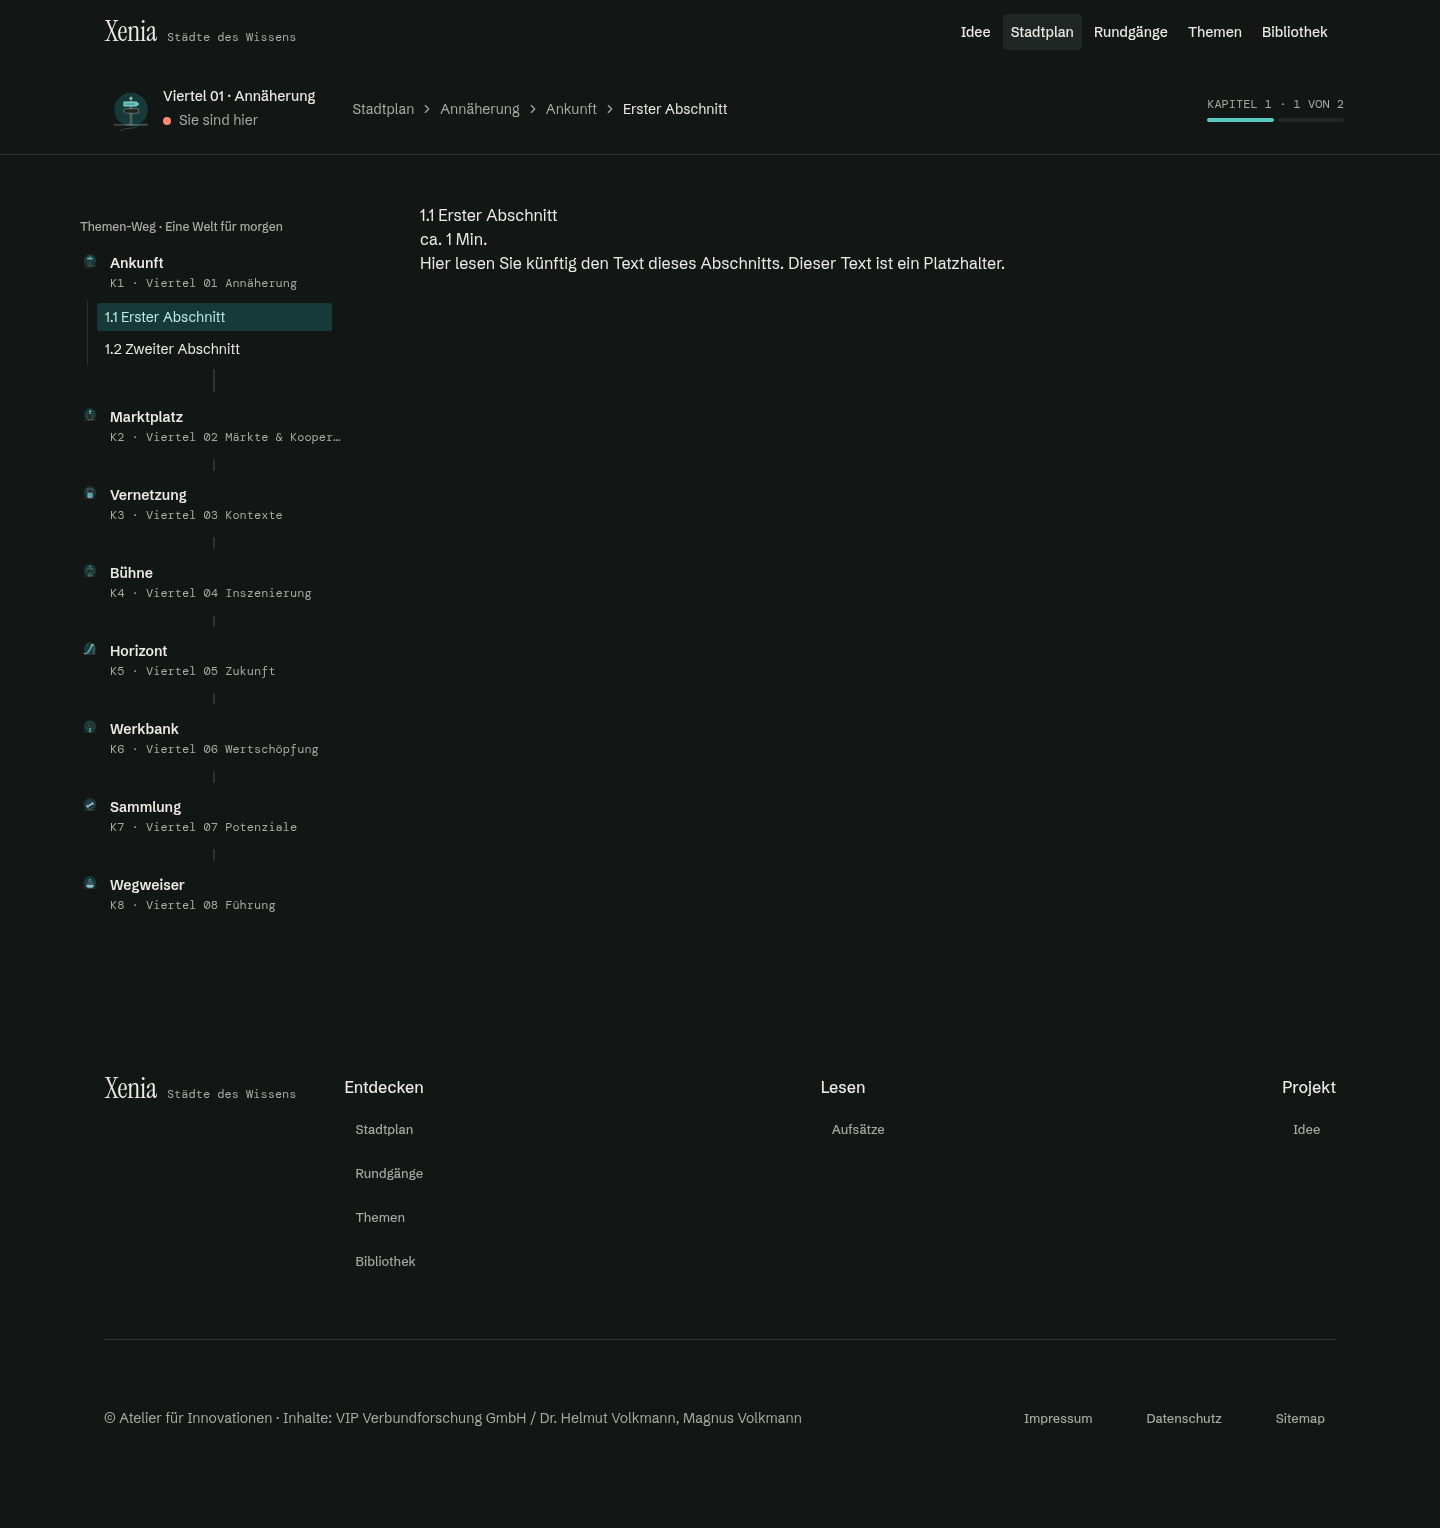
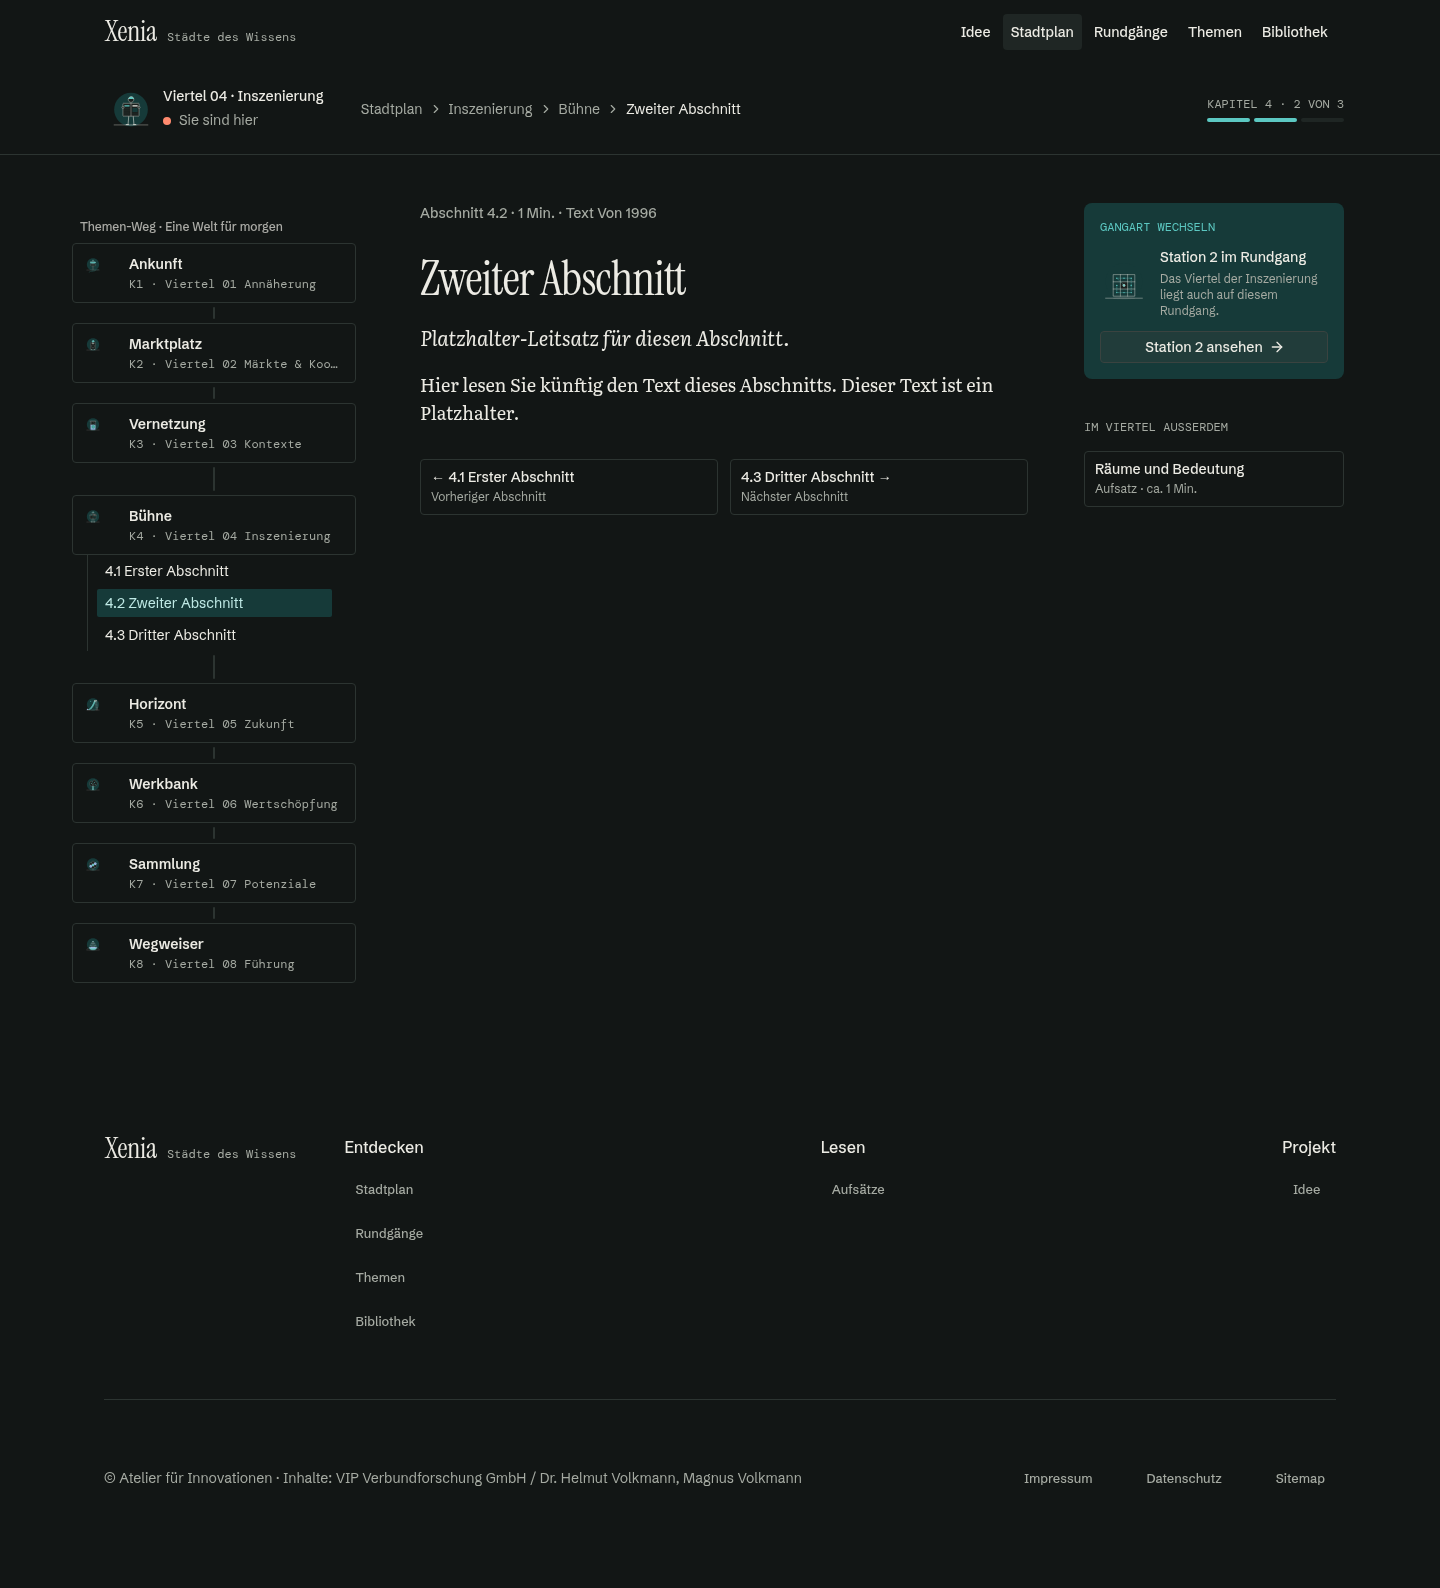
feat(abschnitt): add Abschnitt page with tagline, rich text and navigation
Fills ReadingLayout's columns (#99, #109) for the Abschnitt page (Figma
T04, issue #101): a Tagline ("Abschnitt n.m · n Min. · Text von jahr",
the year left out without one), the title and leitsatz as a lead, the
MDX body in a new Kartei rich-text component, previous/next Abschnitt
Items computed from the Kapitel's own Abschnitte (only where a sibling
exists), and the Kapitel page's Randspalte reused unchanged.

The issue's own breakpoint table puts the previous/next Items side by
side from 768px, even though the Figma frame at that width draws them
stacked — built to the issue's table (its own source-of-truth line) and
recorded as a spec conflict for review.

The shadcn/ui registry serves no installable "Typography" item yet
(`pnpm exec shadcn add typography` 404s), so src/components/ui/rich-text.tsx
hand-builds the Kartei equivalent of the Figma kit's "Typography / Rich
Text" component instead.

diff --git a/src/components/abschnitt/abschnitt-detail.tsx b/src/components/abschnitt/abschnitt-detail.tsx
@@ -1,9 +1,14 @@
+import Link from 'next/link'
 import type * as React from 'react'
 
+import { KapitelRandspalte } from '@/components/kapitel/kapitel-randspalte'
 import { KapitelEbenenLeiste } from '@/components/navigation/kapitel-ebenen-leiste'
 import { ReadingLayout } from '@/components/navigation/reading-layout'
+import { Tagline } from '@/components/pro-blocks/landing-page/tagline'
+import { Item, ItemContent, ItemDescription, ItemTitle } from '@/components/ui/item'
+import { RichText } from '@/components/ui/rich-text'
 import type { Abschnitt } from '@/lib/content'
-import { contentGraph } from '@/lib/content'
+import { contentGraph, shortTitleOrTitle } from '@/lib/content'
 import { t } from '@/lib/dictionary'
 import { bodyImageComponents } from '@/mdx-components'
 
@@ -12,26 +17,90 @@ interface AbschnittDetailProps extends React.ComponentProps<'div'> {
 	locale?: string
 }
 
-// An Abschnitt's own page content (issue #30), shared between its dedicated
-// German route and the catch-all route's localized rendering (issue #36). The
-// heading is the full title: the Short title is only for Menus, breadcrumbs
-// and previous/next (issue #23). The reading layout's Themen-Weg sidebar and
-// Randspalte slot are issue #99.
+// A previous/next Abschnitt Item (Figma "Vor / Zurück (Item)", T04, issue
+// #101): plain outline Items, the arrow baked into the title string like
+// Ortsleiste's ("← {label}", "{label} →"), since Figma draws no separate
+// Item / Media or Item / Actions for them.
+function nachbarItem(
+	nachbar: Abschnitt,
+	titleKey: 'abschnitt.previousTitle' | 'abschnitt.nextTitle',
+	label: string,
+) {
+	return (
+		<Item render={<Link href={nachbar.url} />} variant="outline" size="xs" className="md:flex-1">
+			<ItemContent>
+				<ItemTitle>
+					{t(titleKey, { number: nachbar.number, title: shortTitleOrTitle(nachbar) })}
+				</ItemTitle>
+				<ItemDescription>{label}</ItemDescription>
+			</ItemContent>
+		</Item>
+	)
+}
+
+// An Abschnitt's own page content (Figma T04, issue #101): the Tagline, its
+// title and `leitsatz` as the lead, its MDX body in the Kartei rich-text
+// style, and the previous/next Abschnitt Items — shared between its
+// dedicated German route and the catch-all route's localized rendering
+// (issue #36). The Randspalte is the Kapitel page's own (issue #100),
+// reused unchanged: both pages share one Viertel's Gangart-Box and "Im
+// Viertel außerdem". Figma's "Marker" ("Hier haben Sie zuletzt gelesen") is
+// reading state, not decided yet (issue #64) and out of this issue's
+// acceptance criteria, so it stays out.
 async function AbschnittDetail({ abschnitt, locale, ...props }: AbschnittDetailProps) {
 	const graph = contentGraph()
 	const Body = await graph.getBody(abschnitt.id, locale)
 	const kapitel = graph.getKapitel(abschnitt.kapitelId)
 	if (!kapitel) throw new Error(`AbschnittDetail: unknown Kapitel ID: ${abschnitt.kapitelId}`)
+	const viertel = graph.getViertel(kapitel.viertelId)
+	if (!viertel) throw new Error(`AbschnittDetail: unknown Viertel ID: ${kapitel.viertelId}`)
+
+	const geschwister = graph.getAbschnitteByKapitel(kapitel.id)
+	const index = geschwister.findIndex((candidate) => candidate.id === abschnitt.id)
+	const previous = index > 0 ? geschwister[index - 1] : undefined
+	const next = index >= 0 && index < geschwister.length - 1 ? geschwister[index + 1] : undefined
+
+	const tagline = abschnitt.jahr
+		? t('abschnitt.tagline', {
+				number: abschnitt.number,
+				n: abschnitt.readingTimeMinutes,
+				jahr: abschnitt.jahr,
+			})
+		: t('abschnitt.taglineOhneJahr', { number: abschnitt.number, n: abschnitt.readingTimeMinutes })
 
 	return (
 		<div data-slot="abschnitt-detail" {...props}>
 			<KapitelEbenenLeiste kapitel={kapitel} abschnitt={abschnitt} />
-			<ReadingLayout graph={graph} kapitel={kapitel} abschnitt={abschnitt}>
-				<h1>
-					{t('abschnitt.numberedTitle', { number: abschnitt.number, title: abschnitt.title })}
-				</h1>
-				<p>{t('abschnitt.readingTime', { n: abschnitt.readingTimeMinutes })}</p>
-				<Body components={bodyImageComponents(abschnitt.id)} />
+			<ReadingLayout
+				graph={graph}
+				kapitel={kapitel}
+				abschnitt={abschnitt}
+				randspalte={<KapitelRandspalte graph={graph} viertel={viertel} />}
+			>
+				{/* 608px: the Source Text Rule's column width for the original
+				    Xenia text (Figma T04 36626:14599, kartei-design-system.md Typography). */}
+				{/* eslint-disable-next-line restrictions/arbitrary-size-classes */}
+				<div className="flex max-w-[608px] flex-col gap-8">
+					<Tagline>{tagline}</Tagline>
+					<div className="flex flex-col gap-5">
+						<h1 className="font-heading text-[48px] leading-none tracking-[-0.02em] text-foreground">
+							{abschnitt.title}
+						</h1>
+						{abschnitt.leitsatz && (
+							<p className="font-serif text-xl text-foreground italic">{abschnitt.leitsatz}</p>
+						)}
+						<RichText>
+							<Body components={bodyImageComponents(abschnitt.id)} />
+						</RichText>
+					</div>
+					{(previous || next) && (
+						<div className="flex flex-col gap-3 md:flex-row">
+							{previous &&
+								nachbarItem(previous, 'abschnitt.previousTitle', t('abschnitt.previousLabel'))}
+							{next && nachbarItem(next, 'abschnitt.nextTitle', t('abschnitt.nextLabel'))}
+						</div>
+					)}
+				</div>
 			</ReadingLayout>
 		</div>
 	)

diff --git a/src/components/abschnitt/abschnitt-detail.test.tsx b/src/components/abschnitt/abschnitt-detail.test.tsx
@@ -1,0 +1,75 @@
+import path from 'node:path'
+import { fileURLToPath } from 'node:url'
+
+import { renderToStaticMarkup } from 'react-dom/server'
+import { describe, expect, it, vi } from 'vitest'
+
+import { buildContentGraph } from '@/lib/content'
+
+const fixturesDir = path.join(path.dirname(fileURLToPath(import.meta.url)), '__fixtures__')
+const fixtureGraph = buildContentGraph(path.join(fixturesDir, 'abschnitt-detail-valid'))
+// The real getBody resolves MDX through a Vite dynamic import of src/content,
+// which a fixture directory isn't part of; the body itself isn't under test.
+const graph = { ...fixtureGraph, getBody: async () => () => null } as typeof fixtureGraph
+
+vi.mock('@/lib/content', async (importOriginal) => ({
+	...(await importOriginal<typeof import('@/lib/content')>()),
+	contentGraph: () => graph,
+}))
+
+const { AbschnittDetail } = await import('./abschnitt-detail')
+
+const abschnitte = graph.getAbschnitteByKapitel('leitthema/mein-kapitel')
+const [erster, zweiter, dritter] = abschnitte
+
+async function render(abschnitt: (typeof abschnitte)[number]) {
+	return renderToStaticMarkup(await AbschnittDetail({ abschnitt }))
+}
+
+describe('AbschnittDetail', () => {
+	it('shows the Tagline with the year when the Abschnitt has one', async () => {
+		const html = await render(zweiter!)
+
+		expect(html).toContain(`Abschnitt ${zweiter!.number}`)
+		expect(html).toContain('Text von 1996')
+	})
+
+	it('leaves the year out of the Tagline without one', async () => {
+		const html = await render(erster!)
+
+		expect(html).toContain(`Abschnitt ${erster!.number}`)
+		expect(html).not.toContain('Text von')
+	})
+
+	it('shows only the next Item on the first Abschnitt', async () => {
+		const html = await render(erster!)
+
+		expect(html).not.toContain('Vorheriger Abschnitt')
+		expect(html).toContain('Nächster Abschnitt')
+		expect(html).toContain(`href="${zweiter!.url}"`)
+	})
+
+	it('shows only the previous Item on the last Abschnitt', async () => {
+		const html = await render(dritter!)
+
+		expect(html).toContain('Vorheriger Abschnitt')
+		expect(html).not.toContain('Nächster Abschnitt')
+		expect(html).toContain(`href="${zweiter!.url}"`)
+	})
+
+	it('shows both Items on a middle Abschnitt', async () => {
+		const html = await render(zweiter!)
+
+		expect(html).toContain('Vorheriger Abschnitt')
+		expect(html).toContain('Nächster Abschnitt')
+		expect(html).toContain(`href="${erster!.url}"`)
+		expect(html).toContain(`href="${dritter!.url}"`)
+	})
+
+	it("reuses the Kapitel page's Randspalte for the Abschnitt's own Viertel", async () => {
+		const html = await render(zweiter!)
+
+		expect(html).toContain('data-slot="gangart-box"')
+		expect(html).toContain('IM VIERTEL AUSSERDEM')
+	})
+})

diff --git a/src/components/ui/rich-text.tsx b/src/components/ui/rich-text.tsx
@@ -1,0 +1,28 @@
+import { cn } from 'cn'
+import type * as React from 'react'
+
+// Xenia / Typography / Rich Text (Figma component 36698:54377, "Maps to
+// shadcn/ui Typography"; issue #101): the Kartei styling for a document's
+// MDX body — Literata, the Source Text Rule's face for the original Xenia
+// texts (kartei-design-system.md, Typography). The shadcn/ui registry
+// serves no base-nova `typography` item yet (404 as of this writing), so
+// this styles the body's plain elements by hand instead of installing one.
+function RichText({ className, ...props }: React.ComponentProps<'div'>) {
+	return (
+		<div
+			data-slot="rich-text"
+			className={cn(
+				'flex flex-col gap-5 font-serif text-lg text-foreground',
+				'[&_a]:text-primary [&_a]:underline',
+				'[&_blockquote]:font-serif [&_blockquote]:text-xl [&_blockquote]:italic',
+				'[&_h2]:font-heading [&_h2]:text-3xl [&_h2]:text-foreground',
+				'[&_h3]:font-heading [&_h3]:text-2xl [&_h3]:text-foreground',
+				'[&_ol]:list-decimal [&_ol]:pl-5 [&_ul]:list-disc [&_ul]:pl-5',
+				className,
+			)}
+			{...props}
+		/>
+	)
+}
+
+export { RichText }

diff --git a/src/lib/dictionary/de.ts b/src/lib/dictionary/de.ts
@@ -51,7 +51,12 @@ export const de = {
 	'gangart.viertelLine': 'Das Viertel der {title} liegt auch auf diesem Rundgang.',
 	'gangart.ansehen': 'Station {number} ansehen',
 	'abschnitt.numberedTitle': '{number} {title}',
-	'abschnitt.readingTime': 'ca. {n} Min.',
+	'abschnitt.tagline': 'Abschnitt {number} · {n} Min. · Text von {jahr}',
+	'abschnitt.taglineOhneJahr': 'Abschnitt {number} · {n} Min.',
+	'abschnitt.previousTitle': '← {number} {title}',
+	'abschnitt.nextTitle': '{number} {title} →',
+	'abschnitt.previousLabel': 'Vorheriger Abschnitt',
+	'abschnitt.nextLabel': 'Nächster Abschnitt',
 	'rundgaenge.navigation': 'Die Rundgänge der Wissensstadt',
 	'rundgang.stationenCount': '{n} Stationen',
 	'rundgang.duration': 'ca. {n} Min.',
